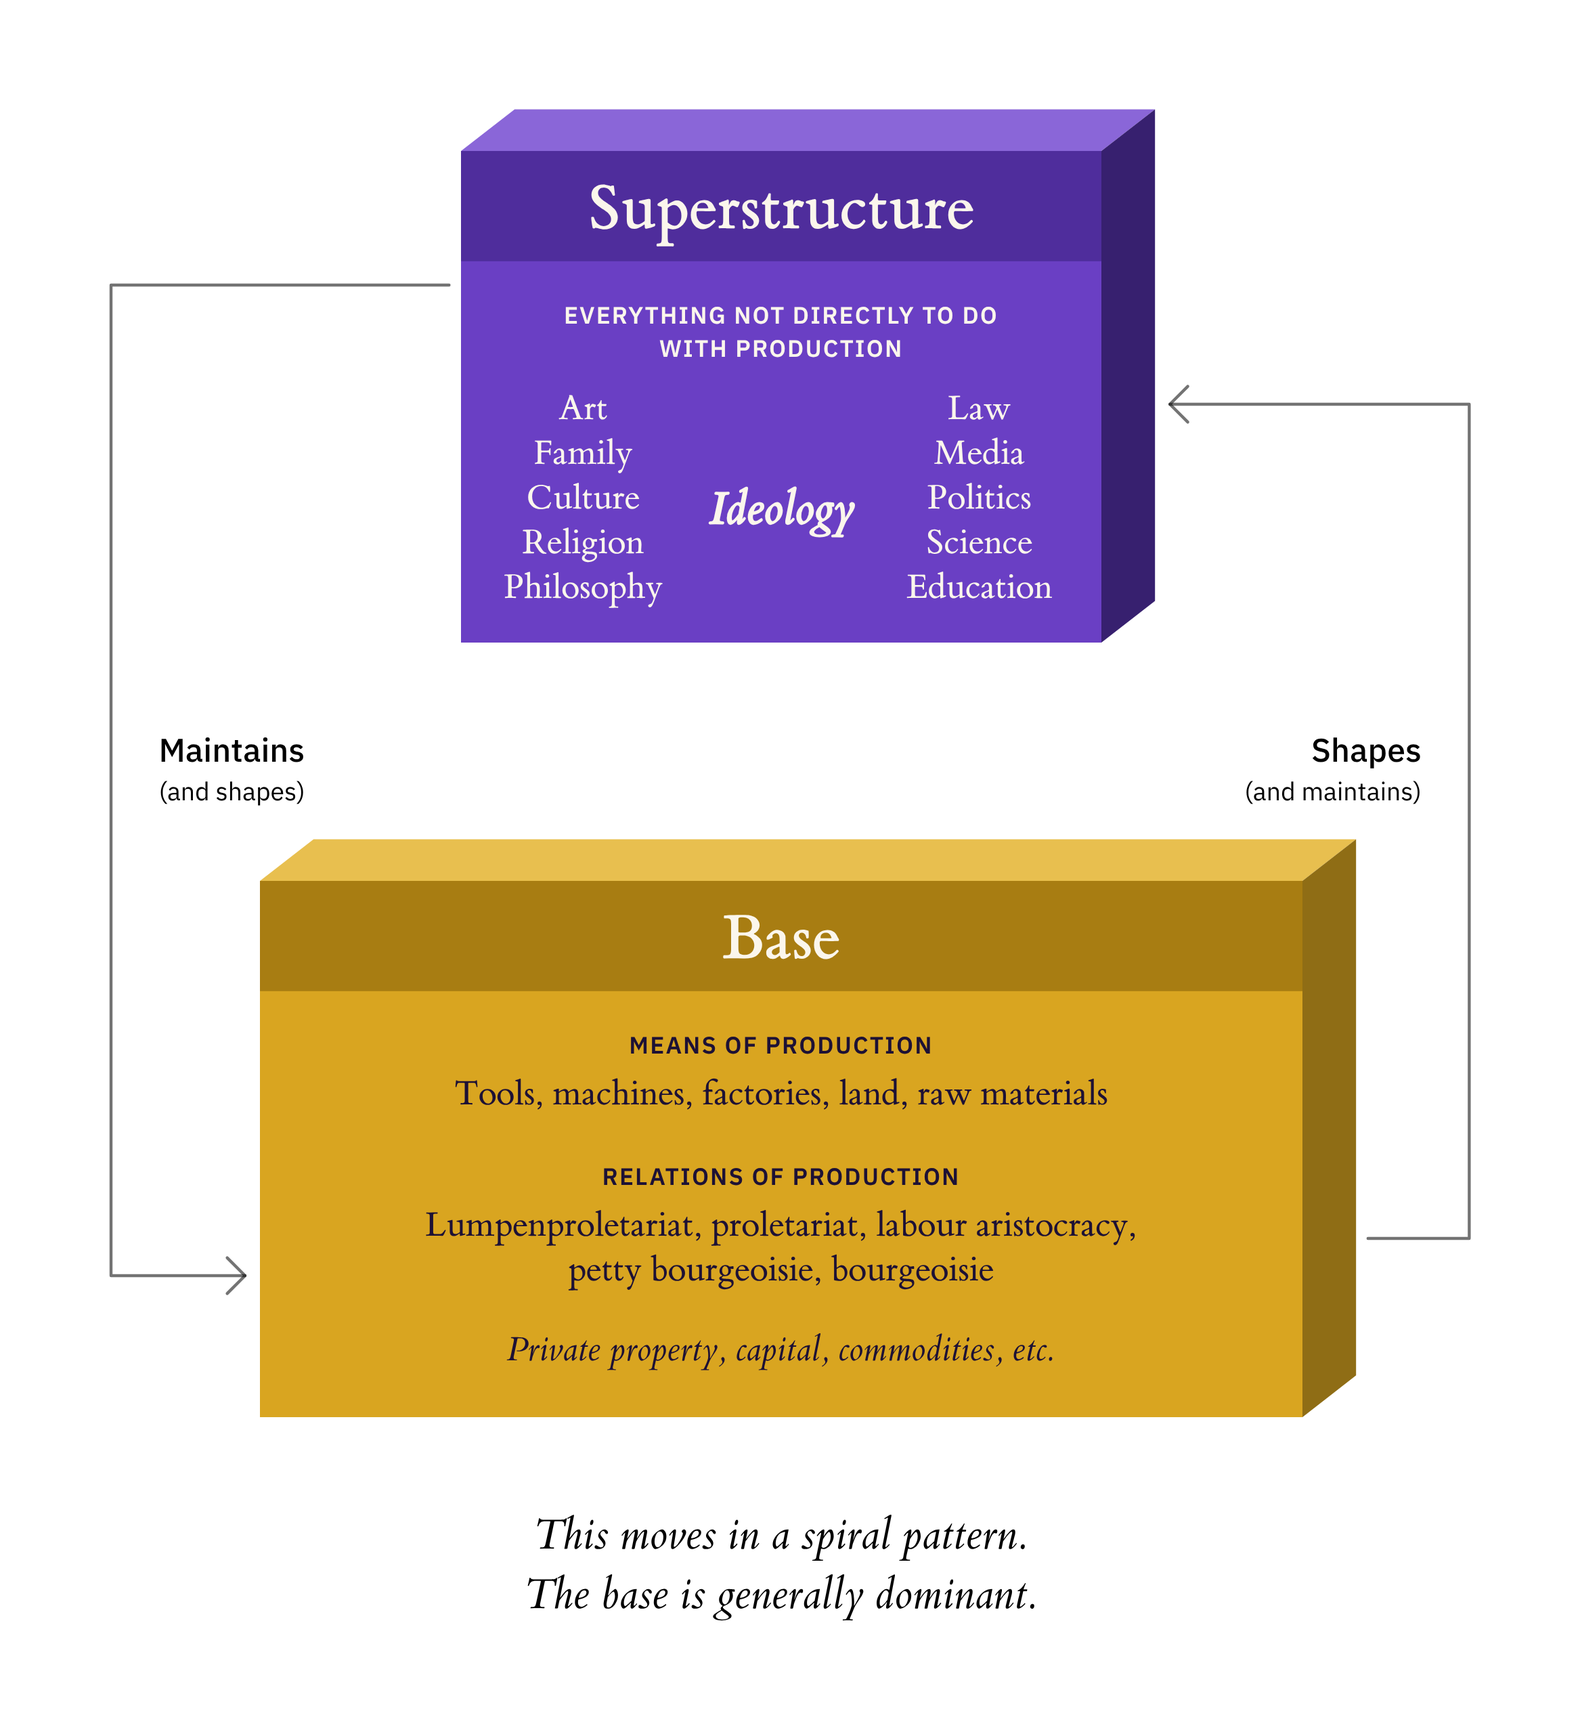
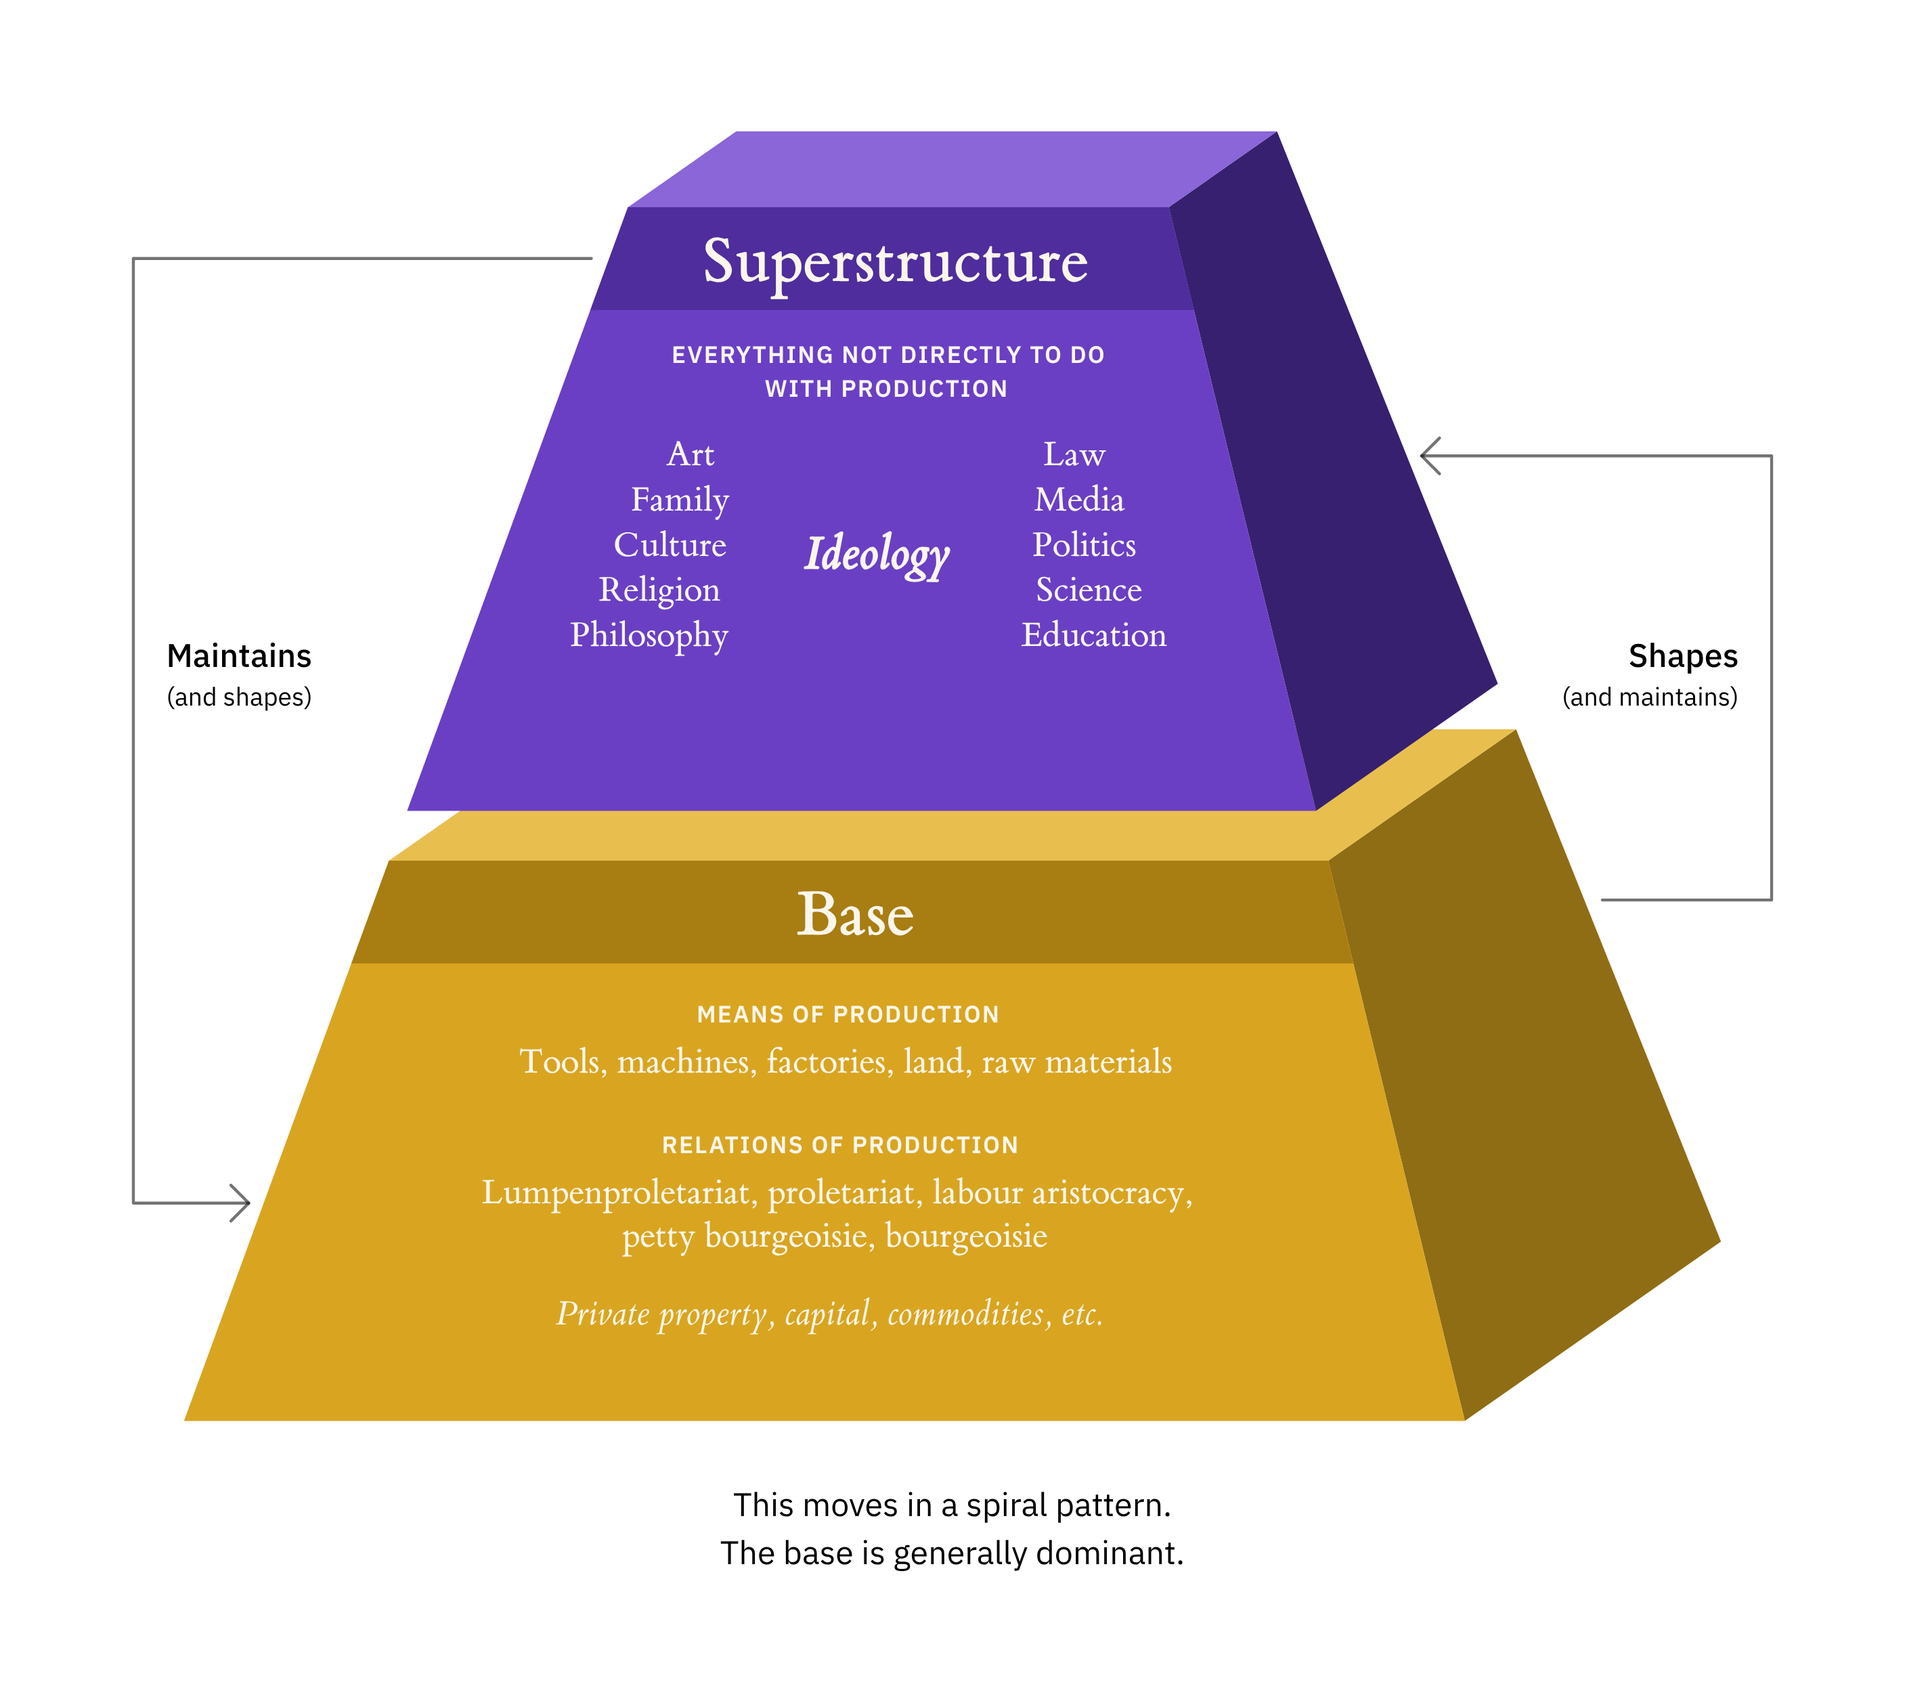
Models: Base-Superstructure diagram as two sections of a pyramid (2.5D, with their tops and right sides), the Base's text white, the caption in IBM Plex Sans; tools/make-marx-pyramid.py draws it
Claude-Session: https://claude.ai/code/session_01LgHoU9QwZ5ZurXZhgzwbWe

diff --git a/diagram/index.html b/diagram/index.html
@@ -2015,9 +2015,8 @@
     }
 
     .marx-fig .mf-note {
-      font-family: var(--serif);
-      font-size: 30px;
-      font-style: italic;
+      font-family: 'IBM Plex Sans', sans-serif;
+      font-size: 22px;
       fill: var(--canvas-ink);
     }
 
@@ -3754,7 +3753,7 @@
     </section>
 
     <section class="structures-view" aria-label="Cultural Materialism: Three Structures">
-    <div class="model-save-row"><a class="model-save" href="../assets/downloads/cultural-materialism.png?v=c9e90f98" download="Cultural Materialism - Three Structures.png"><svg viewBox="0 0 24 24" fill="none" stroke="currentColor" stroke-width="1.6" stroke-linecap="round" stroke-linejoin="round" aria-hidden="true"><path d="M4 15v3.5A1.5 1.5 0 0 0 5.5 20h13a1.5 1.5 0 0 0 1.5-1.5V15"/><g class="arrow"><path d="M12 4v11"/><path d="M8 11l4 4 4-4"/></g></svg><span>Download diagram</span></a></div>
+    <div class="model-save-row"><a class="model-save" href="../assets/downloads/cultural-materialism.png?v=3ae7eac5" download="Cultural Materialism - Three Structures.png"><svg viewBox="0 0 24 24" fill="none" stroke="currentColor" stroke-width="1.6" stroke-linecap="round" stroke-linejoin="round" aria-hidden="true"><path d="M4 15v3.5A1.5 1.5 0 0 0 5.5 20h13a1.5 1.5 0 0 0 1.5-1.5V15"/><g class="arrow"><path d="M12 4v11"/><path d="M8 11l4 4 4-4"/></g></svg><span>Download diagram</span></a></div>
       <div class="stack-layout">
         <div class="stack-scene" aria-hidden="true"><div class="st-stack"></div></div>
         <div class="stack-side">
@@ -3780,35 +3779,37 @@
         </div>
       </div>
       <div class="marx-figure" hidden>
-          <svg class="marx-fig" viewBox="0 0 1200 1160" role="img" aria-label="The base and the superstructure: the superstructure, everything not directly to do with production, maintains (and shapes) the base; the base, the means and relations of production, shapes (and maintains) the superstructure; this moves in a spiral pattern, and the base is generally dominant">
-          <path class="mf-line" d="M377 240 H150 V905 H240"/><path class="mf-line" d="M228 893 L240 905 L228 917"/>
-          <path class="mf-line" d="M994 880 H1062 V320 H861"/><path class="mf-line" d="M873 308 L861 320 L873 332"/>
-          <polygon fill="#8a66d8" points="385,150 421,122 851,122 815,150"/><polygon fill="#37206f" points="815,150 851,122 851,452 815,480"/><rect fill="#6a3fc4" x="385" y="150" width="430" height="330"/><rect fill="#4f2d9c" x="385" y="150" width="430" height="74"/>
-          <polygon fill="#e8bf4f" points="250,640 286,612 986,612 950,640"/><polygon fill="#8f6d15" points="950,640 986,612 986,972 950,1000"/><rect fill="#d9a520" x="250" y="640" width="700" height="360"/><rect fill="#a87d12" x="250" y="640" width="700" height="74"/>
-          <text class="mf-title" x="600" y="202" text-anchor="middle">Superstructure</text>
-          <text class="mf-head" x="600" y="266" text-anchor="middle" fill="#fbf6ec">Everything not directly to do</text>
-          <text class="mf-head" x="600" y="288" text-anchor="middle" fill="#fbf6ec">with production</text>
-          <text class="mf-item" x="467" y="330" text-anchor="middle" fill="#fbf6ec">Art</text>
-          <text class="mf-item" x="467" y="360" text-anchor="middle" fill="#fbf6ec">Family</text>
-          <text class="mf-item" x="467" y="390" text-anchor="middle" fill="#fbf6ec">Culture</text>
-          <text class="mf-item" x="467" y="420" text-anchor="middle" fill="#fbf6ec">Religion</text>
-          <text class="mf-item" x="467" y="450" text-anchor="middle" fill="#fbf6ec">Philosophy</text>
-          <text class="mf-item" x="733" y="330" text-anchor="middle" fill="#fbf6ec">Law</text>
-          <text class="mf-item" x="733" y="360" text-anchor="middle" fill="#fbf6ec">Media</text>
-          <text class="mf-item" x="733" y="390" text-anchor="middle" fill="#fbf6ec">Politics</text>
-          <text class="mf-item" x="733" y="420" text-anchor="middle" fill="#fbf6ec">Science</text>
-          <text class="mf-item" x="733" y="450" text-anchor="middle" fill="#fbf6ec">Education</text>
-          <text class="mf-key" x="600" y="400" text-anchor="middle" fill="#fbf6ec">Ideology</text>
-          <text class="mf-title" x="600" y="692" text-anchor="middle">Base</text>
-          <text class="mf-head" x="600" y="756" text-anchor="middle" fill="#1d1135">Means of production</text>
-          <text class="mf-item" x="600" y="790" text-anchor="middle" fill="#1d1135">Tools, machines, factories, land, raw materials</text>
-          <text class="mf-head" x="600" y="844" text-anchor="middle" fill="#1d1135">Relations of production</text>
-          <text class="mf-item" x="600" y="878" text-anchor="middle" fill="#1d1135">Lumpenproletariat, proletariat, labour aristocracy,</text>
-          <text class="mf-item" x="600" y="908" text-anchor="middle" fill="#1d1135">petty bourgeoisie, bourgeoisie</text>
-          <text class="mf-item mf-em" x="600" y="962" text-anchor="middle" fill="#1d1135">Private property, capital, commodities, etc.</text>
-          <text class="mf-rel" x="182" y="560" text-anchor="start">Maintains</text><text class="mf-rel-sub" x="182" y="586" text-anchor="start">(and shapes)</text>
-          <text class="mf-rel" x="1030" y="560" text-anchor="end">Shapes</text><text class="mf-rel-sub" x="1030" y="586" text-anchor="end">(and maintains)</text>
-          <text class="mf-note" x="600" y="1088" text-anchor="middle">This moves in a spiral pattern.</text><text class="mf-note" x="600" y="1128" text-anchor="middle">The base is generally dominant.</text>
+          <svg class="marx-fig" viewBox="0 0 1200 1160" role="img" aria-label="The base and the superstructure as two sections of a pyramid, the superstructure above: the superstructure, everything not directly to do with production, maintains (and shapes) the base; the base, the means and relations of production, shapes (and maintains) the superstructure; this moves in a spiral pattern, and the base is generally dominant">
+          <path class="mf-line" d="M357.5 209.9 H50 V844.0 H127.5"/>
+          <path class="mf-line" d="M115.5 832.0 L127.5 844.0 L115.5 856.0"/>
+          <path class="mf-line" d="M1036.3 640.5 H1150 V342.4 H915.0"/>
+          <path class="mf-line" d="M927.0 330.4 L915.0 342.4 L927.0 354.4"/>
+          <polygon fill="#8f6d15" points="944.0,990.2 1116.0,869.8 978.4,525.9 852.3,614.1"/><polygon fill="#e8bf4f" points="221.6,614.1 852.3,614.1 978.4,525.9 347.7,525.9"/><polygon fill="#d9a520" points="84.0,990.2 944.0,990.2 852.3,614.1 221.6,614.1"/><polygon fill="#a87d12" points="196.4,683.1 869.1,683.1 852.3,614.1 221.6,614.1"/>
+          <polygon fill="#37206f" points="844.1,580.7 966.2,495.3 817.9,124.6 745.2,175.4"/><polygon fill="#8a66d8" points="382.1,175.4 745.2,175.4 817.9,124.6 454.8,124.6"/><polygon fill="#6a3fc4" points="233.8,580.7 844.1,580.7 745.2,175.4 382.1,175.4"/><polygon fill="#4f2d9c" points="356.9,244.4 762.1,244.4 745.2,175.4 382.1,175.4"/>
+          <text class="mf-title" x="561.6" y="224.9" text-anchor="middle">Superstructure</text>
+          <text class="mf-head" x="557.3" y="279.9" text-anchor="middle" fill="#fbf6ec">Everything not directly to do</text>
+          <text class="mf-head" x="555.9" y="302.9" text-anchor="middle" fill="#fbf6ec">with production</text>
+          <text class="mf-item" x="424.2" y="348.8" text-anchor="middle" fill="#fbf6ec">Art</text>
+          <text class="mf-item" x="417.2" y="379.1" text-anchor="middle" fill="#fbf6ec">Family</text>
+          <text class="mf-item" x="410.3" y="409.4" text-anchor="middle" fill="#fbf6ec">Culture</text>
+          <text class="mf-item" x="403.4" y="439.7" text-anchor="middle" fill="#fbf6ec">Religion</text>
+          <text class="mf-item" x="396.5" y="470.0" text-anchor="middle" fill="#fbf6ec">Philosophy</text>
+          <text class="mf-item" x="682.1" y="348.8" text-anchor="middle" fill="#fbf6ec">Law</text>
+          <text class="mf-item" x="685.3" y="379.1" text-anchor="middle" fill="#fbf6ec">Media</text>
+          <text class="mf-item" x="688.5" y="409.4" text-anchor="middle" fill="#fbf6ec">Politics</text>
+          <text class="mf-item" x="691.7" y="439.7" text-anchor="middle" fill="#fbf6ec">Science</text>
+          <text class="mf-item" x="695.0" y="470.0" text-anchor="middle" fill="#fbf6ec">Education</text>
+          <text class="mf-key" x="548.9" y="417.8" text-anchor="middle" fill="#fbf6ec">Ideology</text>
+          <text class="mf-title" x="534.8" y="663.6" text-anchor="middle">Base</text>
+          <text class="mf-head" x="530.3" y="722.8" text-anchor="middle" fill="#fbf6ec">Means of production</text>
+          <text class="mf-item" x="528.3" y="756.2" text-anchor="middle" fill="#fbf6ec">Tools, machines, factories, land, raw materials</text>
+          <text class="mf-head" x="525.0" y="810.5" text-anchor="middle" fill="#fbf6ec">Relations of production</text>
+          <text class="mf-item" x="522.9" y="844.0" text-anchor="middle" fill="#fbf6ec">Lumpenproletariat, proletariat, labour aristocracy,</text>
+          <text class="mf-item" x="521.1" y="873.2" text-anchor="middle" fill="#fbf6ec">petty bourgeoisie, bourgeoisie</text>
+          <text class="mf-item mf-em" x="517.9" y="925.4" text-anchor="middle" fill="#fbf6ec">Private property, capital, commodities, etc.</text>
+          <text class="mf-rel" x="72" y="484.0">Maintains</text><text class="mf-rel-sub" x="72" y="510.0">(and shapes)</text>
+          <text class="mf-rel" x="1128" y="484.0" text-anchor="end">Shapes</text><text class="mf-rel-sub" x="1128" y="510.0" text-anchor="end">(and maintains)</text>
+          <text class="mf-note" x="600" y="1054.2" text-anchor="middle">This moves in a spiral pattern.</text><text class="mf-note" x="600" y="1086.2" text-anchor="middle">The base is generally dominant.</text>
           </svg>
       </div>
     </section>
@@ -4906,7 +4907,7 @@
         var link = view.querySelector('.model-save');
         var files = {
           stack: [link.getAttribute('href'), link.getAttribute('download')],
-          diagram: ['../assets/downloads/base-superstructure-diagram.png?v=bc0899c2', 'Classical Marxism - Base and Superstructure.png']
+          diagram: ['../assets/downloads/base-superstructure-diagram.png?v=d6b9fa54', 'Classical Marxism - Base and Superstructure.png']
         };
         view.querySelectorAll('.model-modes button').forEach(function (b) {
           b.addEventListener('click', function () {

diff --git a/tools/make-marx-pyramid.py b/tools/make-marx-pyramid.py
@@ -1,0 +1,79 @@
+# Draws the Base-Superstructure diagram (the two sections of a pyramid) into
+# diagram/index.html, replacing the <svg class="marx-fig"> there. Run from
+# the repository root: python3 tools/make-marx-pyramid.py
+import re
+p='diagram/index.html';s=open(p).read()
+# a pyramid in oblique projection: x across, y up, z towards the viewer;
+# the back of the pyramid recedes up and to the right
+A, HP = 430, 1350            # half-width of the base, height to the apex
+KX, KY = 0.2, 0.14          # how far depth recedes, across and up
+CX, CY = 600, 930           # where the centre of the base sits on screen
+def hw(y): return A * (1 - y / HP)
+def P(x, y, z): return (CX + x - KX * z, CY - y + KY * z)
+def pts(*ps): return ' '.join('%.1f,%.1f' % P(*q) for q in ps)
+def tier(y0, y1, band, c):
+    body, bandc, top, side = c
+    h0, h1 = hw(y0), hw(y1)
+    yb = y1 - band; hb = hw(yb)
+    out = []
+    # the right side, then the top, then the front (the face with the text)
+    out.append('<polygon fill="%s" points="%s"/>' % (side, pts((h0, y0, h0), (h0, y0, -h0), (h1, y1, -h1), (h1, y1, h1))))
+    out.append('<polygon fill="%s" points="%s"/>' % (top, pts((-h1, y1, h1), (h1, y1, h1), (h1, y1, -h1), (-h1, y1, -h1))))
+    out.append('<polygon fill="%s" points="%s"/>' % (body, pts((-h0, y0, h0), (h0, y0, h0), (h1, y1, h1), (-h1, y1, h1))))
+    out.append('<polygon fill="%s" points="%s"/>' % (bandc, pts((-hb, yb, hb), (hb, yb, hb), (h1, y1, h1), (-h1, y1, h1))))
+    return ''.join(out)
+def mid(y):           # the centre of the front face, on screen, at height y
+    h = hw(y); return P(0, y, h)
+V = ('#6a3fc4', '#4f2d9c', '#8a66d8', '#37206f'); G = ('#d9a520', '#a87d12', '#e8bf4f', '#8f6d15')
+B0, B1 = 0, 360; S0, S1 = 392, 780; BAND = 66
+svg = ['<svg class="marx-fig" viewBox="0 0 1200 1160" role="img" aria-label="The base and the superstructure as two sections of a pyramid, the superstructure above: the superstructure, everything not directly to do with production, maintains (and shapes) the base; the base, the means and relations of production, shapes (and maintains) the superstructure; this moves in a spiral pattern, and the base is generally dominant">']
+# the relations: plain lines with open arrowheads
+ys = S1 - BAND / 2; xs = P(-hw(ys), ys, hw(ys))       # the superstructure's left edge, by its title
+yb = (B0 + B1) / 2 - 40; xb = P(-hw(yb), yb, hw(yb))   # the base's left edge
+L = 50
+svg.append('<path class="mf-line" d="M%.1f %.1f H%d V%.1f H%.1f"/>' % (xs[0] - 12, xs[1], L, xb[1], xb[0] - 10))
+svg.append('<path class="mf-line" d="M%.1f %.1f L%.1f %.1f L%.1f %.1f"/>' % (xb[0] - 22, xb[1] - 12, xb[0] - 10, xb[1], xb[0] - 22, xb[1] + 12))
+yr = B1 - 120; hr = hw(yr); xr = P(hr, yr, -hr)          # the base's right side, its far edge
+ys2 = S0 + 160; h2 = hw(ys2); xs2 = P(h2, ys2, -h2)       # the superstructure's right side
+R = 1150
+svg.append('<path class="mf-line" d="M%.1f %.1f H%d V%.1f H%.1f"/>' % (xr[0] + 12, xr[1], R, xs2[1], xs2[0] + 10))
+svg.append('<path class="mf-line" d="M%.1f %.1f L%.1f %.1f L%.1f %.1f"/>' % (xs2[0] + 22, xs2[1] - 12, xs2[0] + 10, xs2[1], xs2[0] + 22, xs2[1] + 12))
+svg.append(tier(B0, B1, BAND, G))
+svg.append(tier(S0, S1, BAND, V))
+def text(cls, y, s, fill=None, dx=0, anchor='middle', dy=0):
+    x, yy = mid(y)
+    f = (' fill="%s"' % fill) if fill else ''
+    return '<text class="%s" x="%.1f" y="%.1f" text-anchor="%s"%s>%s</text>' % (cls, x + dx, yy + dy, anchor, f, s)
+W = '#fbf6ec'; INK = W
+# the superstructure's face
+svg.append(text('mf-title', S1 - BAND / 2, 'Superstructure', dy=15))
+svg.append(text('mf-head', S1 - BAND - 34, 'Everything not directly to do', W))
+svg.append(text('mf-head', S1 - BAND - 56, 'with production', W))
+for i, w in enumerate(['Art', 'Family', 'Culture', 'Religion', 'Philosophy']):
+    yy = S1 - BAND - 100 - i * 29
+    svg.append(text('mf-item', yy, w, W, dx=-hw(yy) * 0.55))
+for i, w in enumerate(['Law', 'Media', 'Politics', 'Science', 'Education']):
+    yy = S1 - BAND - 100 - i * 29
+    svg.append(text('mf-item', yy, w, W, dx=hw(yy) * 0.55))
+svg.append(text('mf-key', S1 - BAND - 166, 'Ideology', W))
+# the base's face
+svg.append(text('mf-title', B1 - BAND / 2, 'Base', dy=15))
+for (yy, cls, t) in [(B1 - BAND - 38, 'mf-head', 'Means of production'), (B1 - BAND - 70, 'mf-item', 'Tools, machines, factories, land, raw materials'),
+                     (B1 - BAND - 122, 'mf-head', 'Relations of production'), (B1 - BAND - 154, 'mf-item', 'Lumpenproletariat, proletariat, labour aristocracy,'),
+                     (B1 - BAND - 182, 'mf-item', 'petty bourgeoisie, bourgeoisie'), (B1 - BAND - 232, 'mf-item mf-em', 'Private property, capital, commodities, etc.')]:
+    svg.append(text(cls, yy, t, INK))
+# the labels by the lines
+# (each label beside its line, in the gap between the two sections)
+gy = P(0, (B1 + S0) / 2, 0)[1]
+svg.append('<text class="mf-rel" x="%d" y="%.1f">Maintains</text><text class="mf-rel-sub" x="%d" y="%.1f">(and shapes)</text>' % (L + 22, gy - 70, L + 22, gy - 44))
+svg.append('<text class="mf-rel" x="%d" y="%.1f" text-anchor="end">Shapes</text><text class="mf-rel-sub" x="%d" y="%.1f" text-anchor="end">(and maintains)</text>' % (R - 22, gy - 70, R - 22, gy - 44))
+bot = P(0, 0, A)[1]
+svg.append('<text class="mf-note" x="600" y="%.1f" text-anchor="middle">This moves in a spiral pattern.</text><text class="mf-note" x="600" y="%.1f" text-anchor="middle">The base is generally dominant.</text>' % (bot + 64, bot + 96))
+top = P(0, S1, -hw(S1))[1]
+print('top', top, 'caption', bot + 96)
+svg.append('</svg>')
+new = ('\n' + ' ' * 10).join(svg)
+s, n = re.subn(r'<svg class="marx-fig".*?</svg>', lambda m: new, s, flags=re.S)
+assert n == 1
+open(p, 'w').write(s)
+print('bottom', bot)
